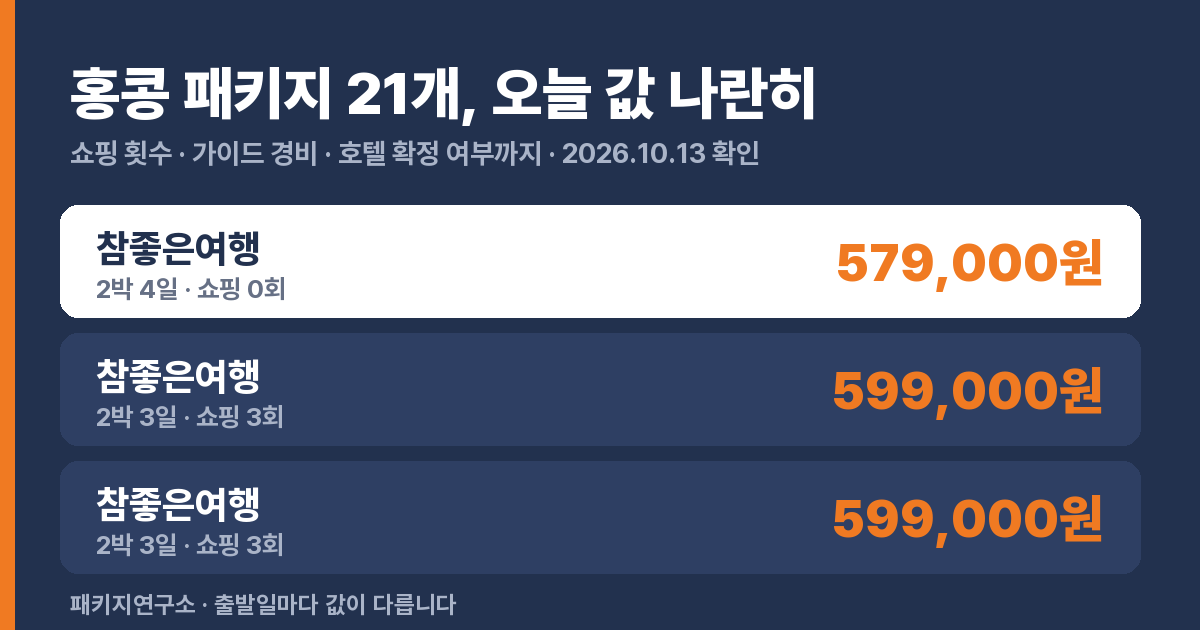
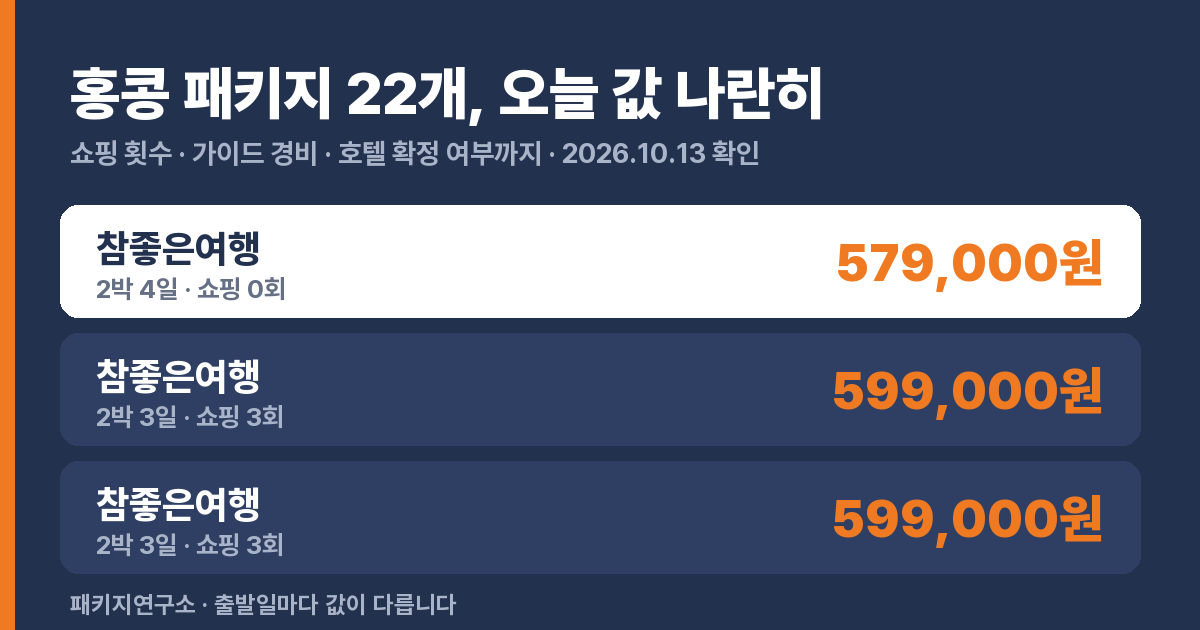
목적지 비교 페이지 2026.10.13

Changed region(s): [[0.3083, 0.0905, 0.7092, 0.2111]]

diff --git a/d/hongkong.html b/d/hongkong.html
@@ -1,8 +1,8 @@
 <!doctype html><html lang="ko"><head>
 <meta charset="utf-8"><meta name="viewport" content="width=device-width,initial-scale=1">
 <title>홍콩 패키지 비교 — 패키지연구소</title>
-<meta name="description" content="홍콩 패키지 21개를 가격·쇼핑 횟수·가이드 경비·호텔 확정 여부로 나란히 놓고 비교합니다.">
-<link rel="canonical" href="https://package-researcher.github.io/d/hongkong.html"><meta property="og:type" content="website"><meta property="og:url" content="https://package-researcher.github.io/d/hongkong.html"><meta property="og:title" content="홍콩 패키지 21개, 나란히 비교"><meta property="og:description" content="가격·쇼핑 횟수·가이드 경비·호텔 확정 여부 · 오늘 기준 요금"><meta property="og:image" content="https://package-researcher.github.io/d/og/hongkong.png"><meta property="og:image:width" content="1200"><meta property="og:image:height" content="630"><meta name="twitter:card" content="summary_large_image"><script type="application/ld+json">{"@context": "https://schema.org", "@graph": [{"@type": "WebPage", "name": "홍콩 패키지 21개 비교", "url": "https://package-researcher.github.io/d/hongkong.html", "publisher": {"@type": "Organization", "name": "패키지연구소", "url": "https://package-researcher.github.io/", "logo": "https://package-researcher.github.io/logo.png", "sameAs": ["https://www.youtube.com/@package-researcher", "https://www.instagram.com/package_researcher", "https://www.threads.net/@package_researcher", "https://clip.naver.com/@packagelabs", "https://blog.naver.com/robotnady10", "https://spnd.tistory.com"]}}, {"@type": "BreadcrumbList", "itemListElement": [{"@type": "ListItem", "position": 1, "name": "패키지연구소", "item": "https://package-researcher.github.io/"}, {"@type": "ListItem", "position": 2, "name": "홍콩 패키지 비교", "item": "https://package-researcher.github.io/d/hongkong.html"}]}]}</script>
+<meta name="description" content="홍콩 패키지 22개를 가격·쇼핑 횟수·가이드 경비·호텔 확정 여부로 나란히 놓고 비교합니다.">
+<link rel="canonical" href="https://package-researcher.github.io/d/hongkong.html"><meta property="og:type" content="website"><meta property="og:url" content="https://package-researcher.github.io/d/hongkong.html"><meta property="og:title" content="홍콩 패키지 22개, 나란히 비교"><meta property="og:description" content="가격·쇼핑 횟수·가이드 경비·호텔 확정 여부 · 오늘 기준 요금"><meta property="og:image" content="https://package-researcher.github.io/d/og/hongkong.png"><meta property="og:image:width" content="1200"><meta property="og:image:height" content="630"><meta name="twitter:card" content="summary_large_image"><script type="application/ld+json">{"@context": "https://schema.org", "@graph": [{"@type": "WebPage", "name": "홍콩 패키지 22개 비교", "url": "https://package-researcher.github.io/d/hongkong.html", "publisher": {"@type": "Organization", "name": "패키지연구소", "url": "https://package-researcher.github.io/", "logo": "https://package-researcher.github.io/logo.png", "sameAs": ["https://www.youtube.com/@package-researcher", "https://www.instagram.com/package_researcher", "https://www.threads.net/@package_researcher", "https://clip.naver.com/@packagelabs", "https://blog.naver.com/robotnady10", "https://spnd.tistory.com"]}}, {"@type": "BreadcrumbList", "itemListElement": [{"@type": "ListItem", "position": 1, "name": "패키지연구소", "item": "https://package-researcher.github.io/"}, {"@type": "ListItem", "position": 2, "name": "홍콩 패키지 비교", "item": "https://package-researcher.github.io/d/hongkong.html"}]}]}</script>
 <style>
 *{box-sizing:border-box}
 body{margin:0;background:#F7F5EF;color:#22314E;word-break:keep-all;overflow-wrap:anywhere;
@@ -54,7 +54,7 @@ h1{font-size:27px;line-height:1.3;margin:6px 0 4px;letter-spacing:-.02em}
 </style></head><body><div class="wrap">
 <a class="back" href="https://package-researcher.github.io/">← 패키지연구소</a>
 <h1>홍콩 패키지, 나란히 놓고 비교</h1>
-<p class="sub">21개 · 2026.10.13 기준 · 값싼 순</p>
+<p class="sub">22개 · 2026.10.13 기준 · 값싼 순</p>
 <div class="top3"><h2>오늘 최저가 3</h2><div class="t3"><div class="rk">1</div><div class="who"><b>참좋은여행</b><span>2박 4일 · 쇼핑 0회 · 현지 가이드 경비 40달러</span></div><div class="t3p">579,000원</div><a href="https://naver.me/5LQ1Msax" target="_blank" rel="sponsored noopener">요금 보기</a></div><div class="t3"><div class="rk">2</div><div class="who"><b>참좋은여행</b><span>2박 3일 · 쇼핑 3회 · 현지 가이드 경비 30달러</span></div><div class="t3p">599,000원</div><a href="https://naver.me/GxrQa5tz" target="_blank" rel="sponsored noopener">요금 보기</a></div><div class="t3"><div class="rk">3</div><div class="who"><b>참좋은여행</b><span>2박 3일 · 쇼핑 3회 · 현지 가이드 경비 30달러</span></div><div class="t3p">599,000원</div><a href="https://naver.me/FHOxhyR8" target="_blank" rel="sponsored noopener">요금 보기</a></div></div>
 <div class="note"><b>이 표를 보는 법.</b> 값만 보면 안 됩니다.
 <b>쇼핑 횟수</b>가 값을 만들고(0회면 보통 20만원 이상 비쌉니다),
@@ -78,6 +78,7 @@ h1{font-size:27px;line-height:1.3;margin:6px 0 4px;letter-spacing:-.02em}
 <div class="card"><div class="tag gray">호텔 확정</div><div class="name">[출발확정] 홍콩/마카오 3일 4인출발핵심일정노쇼핑노옵션노팁꽉찬일정</div><div class="price">1,249,000원<span>1인</span></div><div class="grid"><div class="kv"><b>여행사</b>하나투어</div><div class="kv"><b>일정</b>2박 3일</div><div class="kv"><b>항공</b>트리니티항공 직항</div><div class="kv"><b>출발</b>08:55</div><div class="kv"><b>쇼핑</b>0회</div><div class="kv"><b>가이드 경비</b>포함</div><div class="kv"><b>식사</b>5회</div><div class="kv"><b>호텔</b>시티뷰 - 홍콩 중국 YMCA</div><div class="kv"><b>인솔자</b>없음</div></div><div class="fit"><span class="ok">좋은 점</span> 쇼핑 없음 · 가이드 경비 포함 · 직항</div><a class="go" href="https://naver.me/Gahio27L" target="_blank" rel="sponsored noopener">오늘 기준 요금 보기</a></div>
 <div class="card"><div class="name">홍콩/마카오 4일 노옵션 YP 꽉찬일정</div><div class="price">1,279,900원<span>1인</span></div><div class="grid"><div class="kv"><b>여행사</b>노랑풍선</div><div class="kv"><b>일정</b>3박 4일</div><div class="kv"><b>항공</b>에어프레미아 직항</div><div class="kv"><b>출발</b>09:05</div><div class="kv"><b>쇼핑</b>3회</div><div class="kv"><b>가이드 경비</b>40달러</div><div class="kv"><b>식사</b>8회</div><div class="kv"><b>인솔자</b>없음</div></div><div class="fit"><span class="ok">좋은 점</span> 직항<br><span class="no">따져볼 점</span> 쇼핑 3회 · 가이드 경비 현지 40달러</div><a class="go" href="https://naver.me/xD8XcN5N" target="_blank" rel="sponsored noopener">오늘 기준 요금 보기</a></div>
 <div class="card"><div class="name">[출발확정/여행최적기]홍콩/마카오/선전(심천) 4일 노쇼핑노옵션 품격여행 월드체인호텔</div><div class="price">1,299,900원<span>1인</span></div><div class="grid"><div class="kv"><b>여행사</b>노랑풍선</div><div class="kv"><b>일정</b>3박 4일</div><div class="kv"><b>항공</b>대한항공 직항</div><div class="kv"><b>출발</b>08:15</div><div class="kv"><b>쇼핑</b>0회</div><div class="kv"><b>가이드 경비</b>400위안</div><div class="kv"><b>식사</b>9회</div><div class="kv"><b>인솔자</b>없음</div></div><div class="fit"><span class="ok">좋은 점</span> 쇼핑 없음 · 직항<br><span class="no">따져볼 점</span> 가이드 경비 현지 400위안</div><a class="go" href="https://naver.me/x2YS4n24" target="_blank" rel="sponsored noopener">오늘 기준 요금 보기</a></div>
+<div class="card"><div class="name">홍콩/마카오 4일 노옵션 핵심관광 꽉찬일정 KE </div><div class="price">1,329,900원<span>1인</span></div><div class="grid"><div class="kv"><b>여행사</b>노랑풍선</div><div class="kv"><b>일정</b>3박 4일</div><div class="kv"><b>항공</b>대한항공 직항</div><div class="kv"><b>출발</b>08:10</div><div class="kv"><b>쇼핑</b>3회</div><div class="kv"><b>가이드 경비</b>40달러</div><div class="kv"><b>식사</b>8회</div><div class="kv"><b>인솔자</b>없음</div></div><div class="fit"><span class="ok">좋은 점</span> 직항<br><span class="no">따져볼 점</span> 쇼핑 3회 · 가이드 경비 현지 40달러</div><a class="go" href="https://naver.me/xB7Wpsro" target="_blank" rel="sponsored noopener">오늘 기준 요금 보기</a></div>
 <div class="card"><div class="name">와인앤다인페스티벌/HK$260상당 토큰증정 대한항공탑승마카오 1박+홍콩 2박 자유일정3박4일</div><div class="price">1,399,000원<span>1인</span></div><div class="grid"><div class="kv"><b>여행사</b>참좋은여행</div><div class="kv"><b>일정</b>3박 4일</div><div class="kv"><b>항공</b>대한항공 직항</div><div class="kv"><b>출발</b>10:40</div><div class="kv"><b>쇼핑</b>3회</div><div class="kv"><b>가이드 경비</b>40달러</div><div class="kv"><b>식사</b>7회</div><div class="kv"><b>자유일정</b>1일</div><div class="kv"><b>인솔자</b>없음</div></div><div class="fit"><span class="ok">좋은 점</span> 직항<br><span class="no">따져볼 점</span> 쇼핑 3회 · 가이드 경비 현지 40달러</div><a class="go" href="https://naver.me/xoG92A15" target="_blank" rel="sponsored noopener">오늘 기준 요금 보기</a></div>
 <div class="card"><div class="tag gray">호텔 확정</div><div class="name">[출발확정] 홍콩/마카오 4일 4인출발핵심일정노쇼핑노옵션노팁1일자유</div><div class="price">1,499,000원<span>1인</span></div><div class="grid"><div class="kv"><b>여행사</b>하나투어</div><div class="kv"><b>일정</b>3박 4일</div><div class="kv"><b>항공</b>아시아나항공 직항</div><div class="kv"><b>출발</b>09:00</div><div class="kv"><b>쇼핑</b>0회</div><div class="kv"><b>가이드 경비</b>포함</div><div class="kv"><b>식사</b>6회</div><div class="kv"><b>호텔</b>시티뷰 - 홍콩 중국 YMCA</div><div class="kv"><b>인솔자</b>없음</div></div><div class="fit"><span class="ok">좋은 점</span> 쇼핑 없음 · 가이드 경비 포함 · 직항</div><a class="go" href="https://naver.me/GP2WVhiT" target="_blank" rel="sponsored noopener">오늘 기준 요금 보기</a></div>
 <div class="card"><div class="name">홍콩/마카오/심천 4일 TOP PICK OZ</div><div class="price">1,619,900원<span>1인</span></div><div class="grid"><div class="kv"><b>여행사</b>노랑풍선</div><div class="kv"><b>일정</b>3박 4일</div><div class="kv"><b>항공</b>아시아나항공 직항</div><div class="kv"><b>출발</b>09:00</div><div class="kv"><b>쇼핑</b>0회</div><div class="kv"><b>가이드 경비</b>포함</div><div class="kv"><b>식사</b>8회</div><div class="kv"><b>인솔자</b>없음</div></div><div class="fit"><span class="ok">좋은 점</span> 쇼핑 없음 · 가이드 경비 포함 · 직항</div><a class="go" href="https://naver.me/GgUItTBv" target="_blank" rel="sponsored noopener">오늘 기준 요금 보기</a></div>
